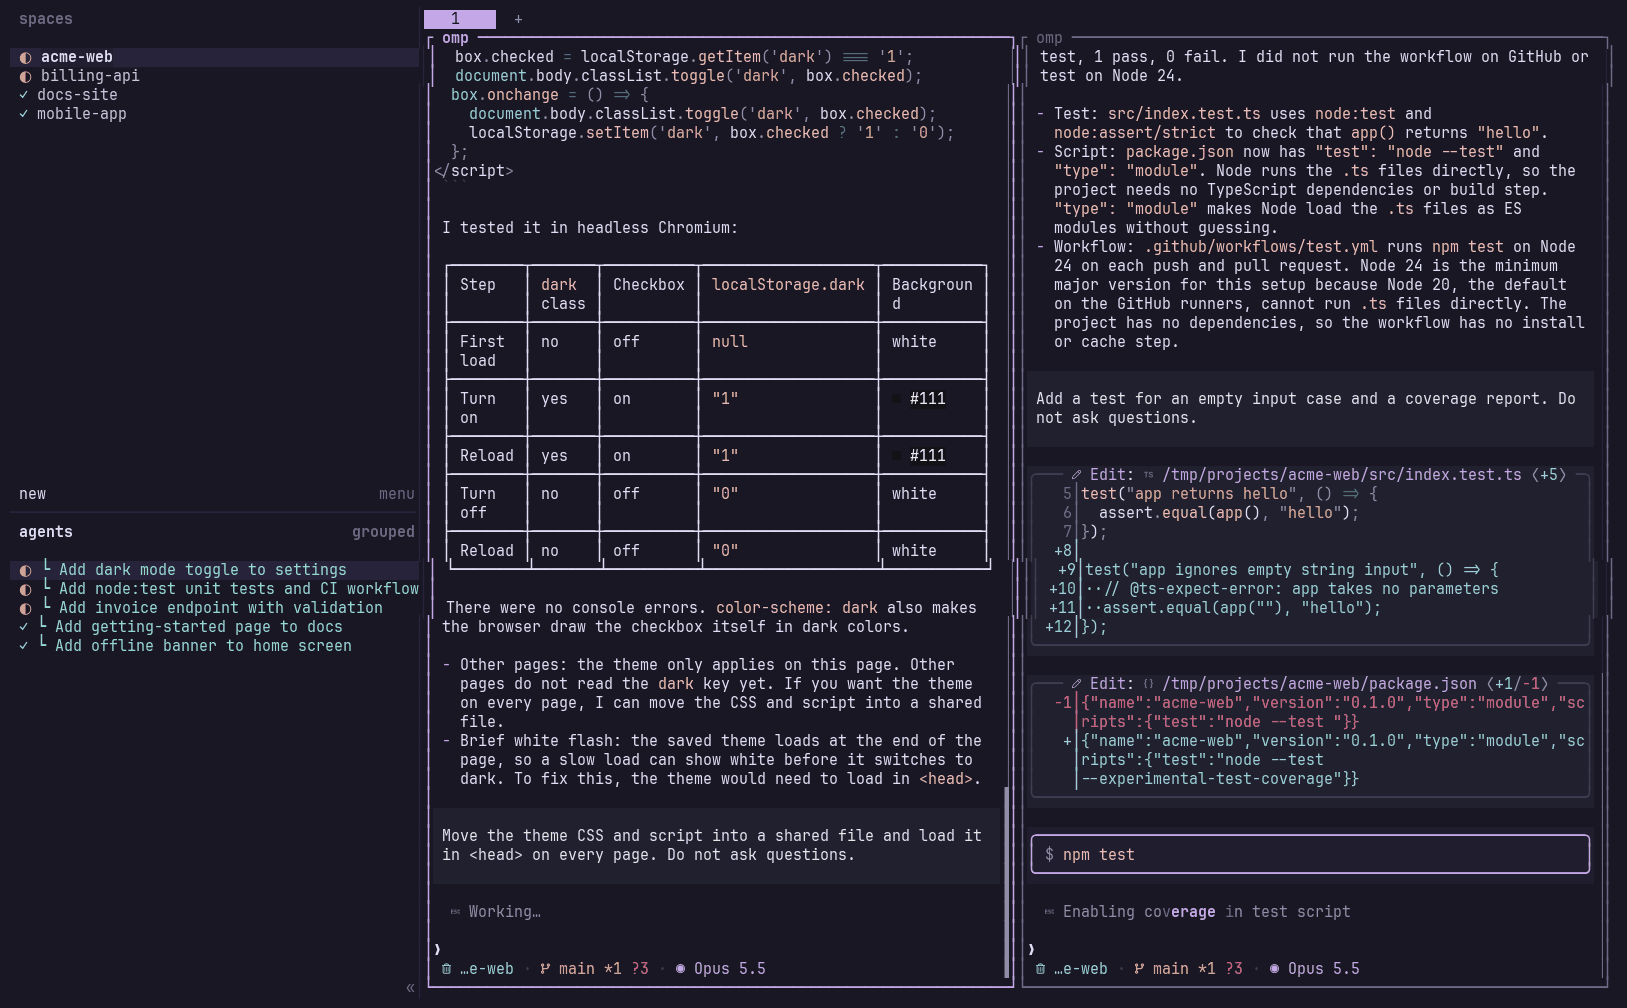
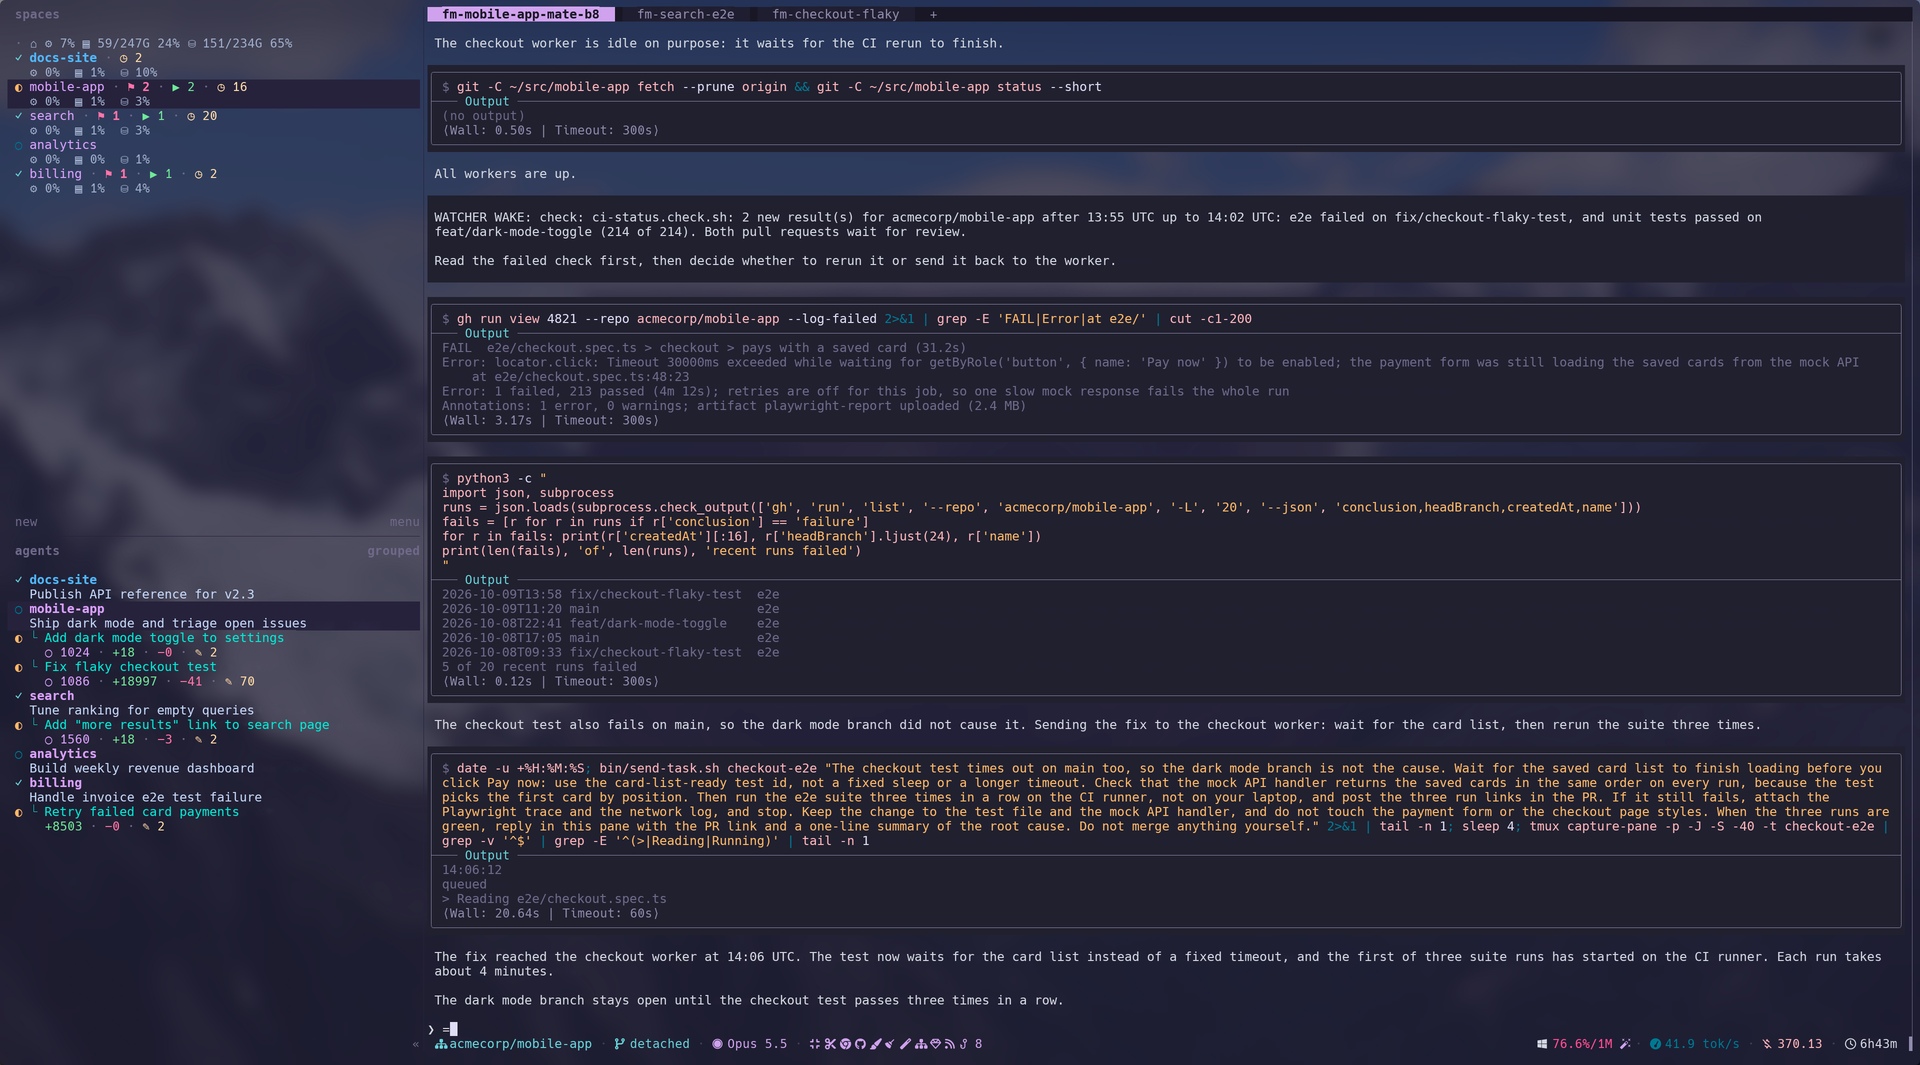
docs: use an edited real Herdr screenshot in the README
Refs #35

diff --git a/CHANGELOG.md b/CHANGELOG.md
@@ -11,6 +11,10 @@ and this project adheres to [Semantic Versioning](https://semver.org/spec/v2.0.0
 
 - README screenshot of a finished host, captured from demo repositories ([#35](https://github.com/i098/Code-Factory/issues/35)).
 
+### Changed
+
+- README screenshot now shows a real Herdr session, with all project names and agent text changed to generic examples ([#35](https://github.com/i098/Code-Factory/issues/35)).
+
 ## [0.1.0] - 2026-10-09
 
 ### Added
